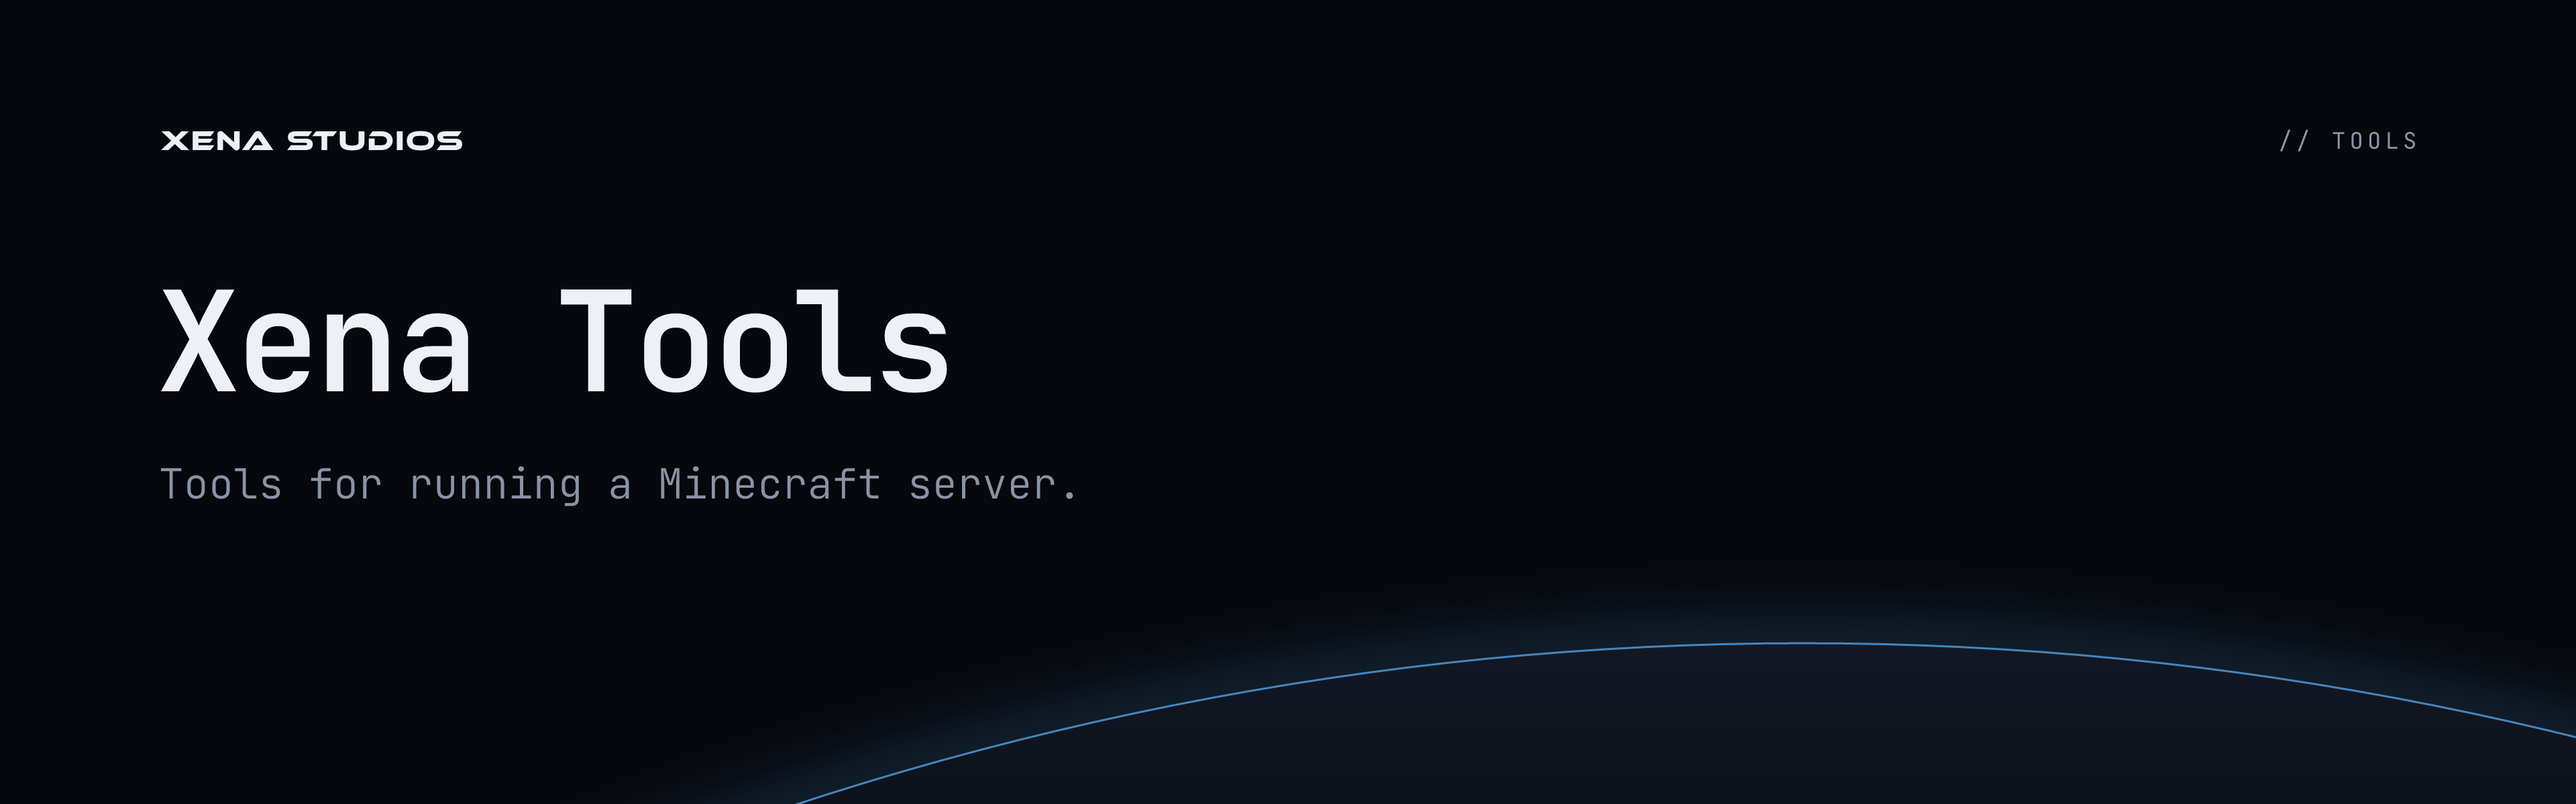
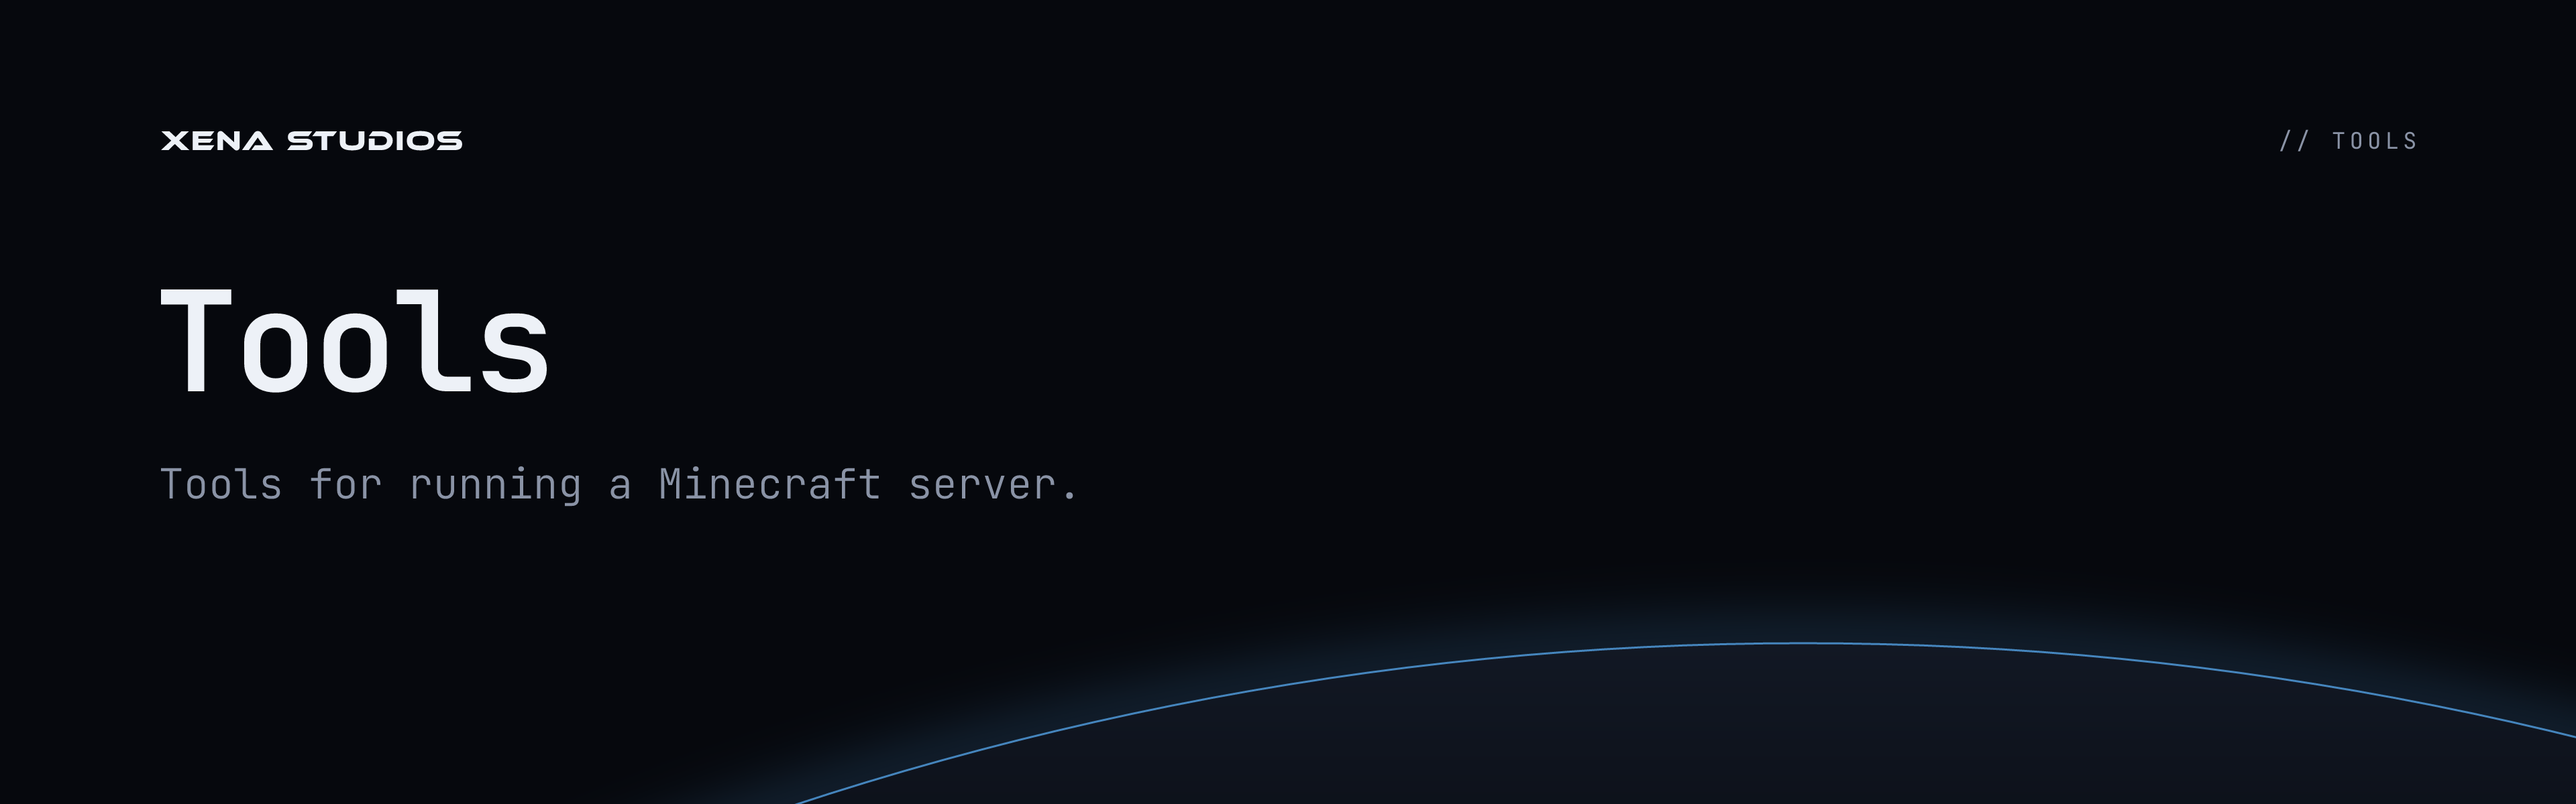
fix: the tools repo card is titled Tools, as brand's is Brand

Changed region(s): [[0.0625, 0.3392, 0.375, 0.4933]]

diff --git a/scripts/art/xena.ts b/scripts/art/xena.ts
@@ -98,7 +98,7 @@ const repoCards: Record<string, Card> = {
   website: { kicker: "// WEBSITE", title: "xenastudios.co", lead: "The studio's website. Astro, served by Cloudflare." },
   dotgithub: { kicker: "// GITHUB", title: "Xena Studios", lead: ORG_TAGLINE },
   hallow: { kicker: "// HALLOW", title: "Hallow", lead: "A full minigame network on Pumpkin, in Rust." },
-  tools: { kicker: "// TOOLS", title: "Xena Tools", lead: "Tools for running a Minecraft server." },
+  tools: { kicker: "// TOOLS", title: "Tools", lead: "Tools for running a Minecraft server." },
 };
 
 /** pnpm build:logos: the logos in every colour, and the team photos' initials. The only files drawn in Ethnocentric. */
